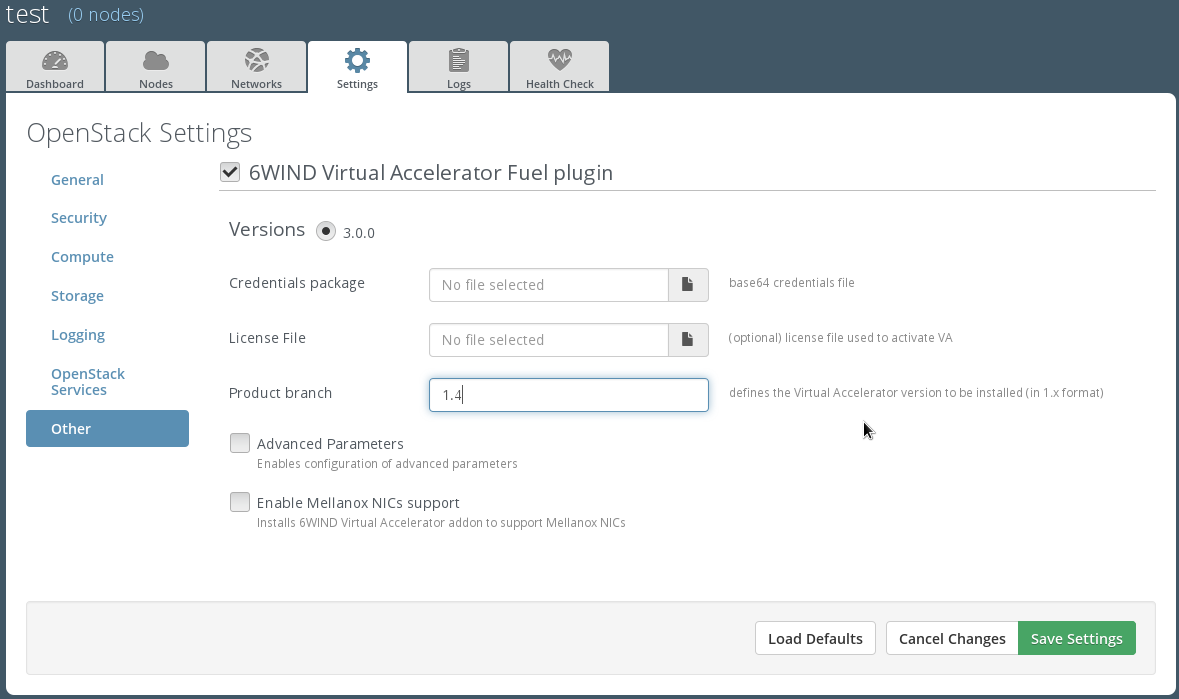
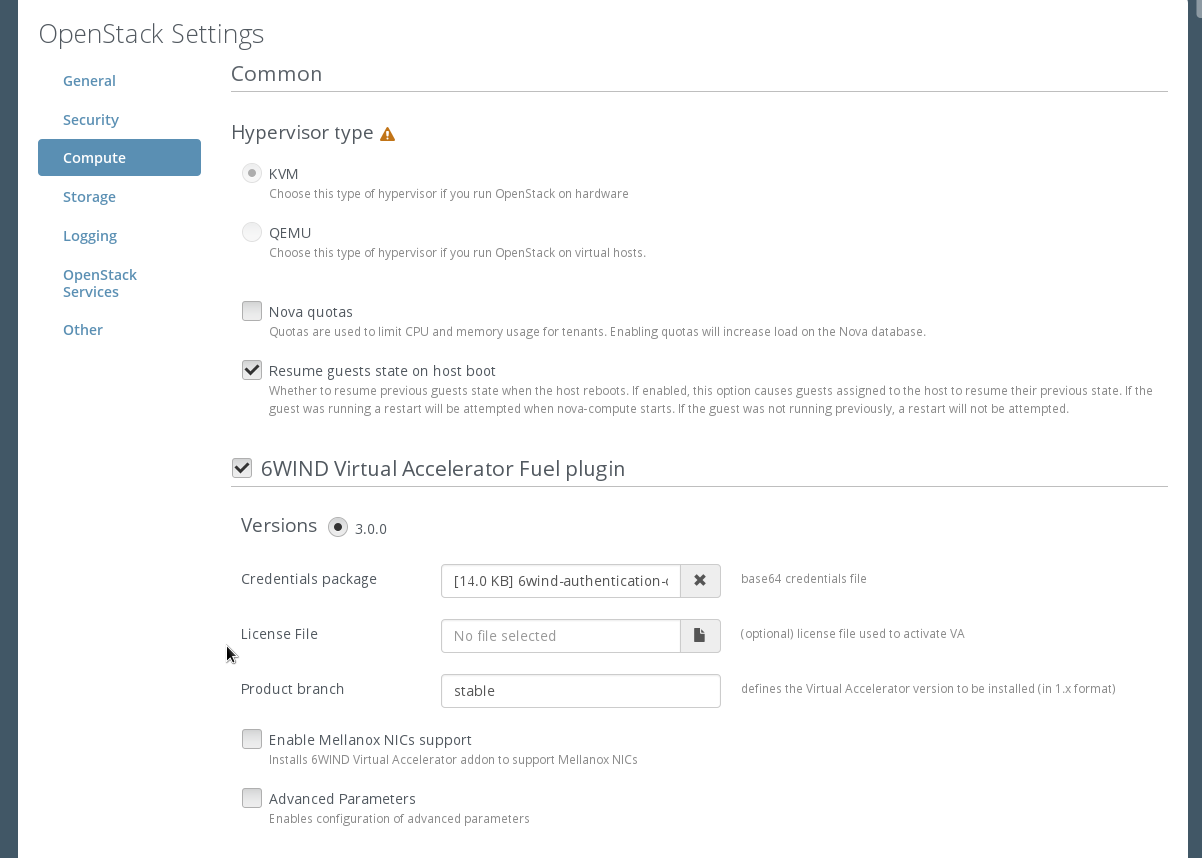
6wind-virtual-accelerator-plugin: update documentation and screenshots
This commit updates documentation and screenshots to reflect
the new placement of 6WIND Virtual Accelerator Fuel plugin UI
in Compute section of Settings tab.

diff --git a/doc/source/user-guide.rst b/doc/source/user-guide.rst
@@ -31,7 +31,8 @@ Configuring 6WIND Virtual Accelerator parameters
 The 6WIND Virtual Accelerator plugin makes possible to modify these default
 configuration parameters before deployment.
 In order to do this you need to activate the **Advanced parameters** checkbox
-in the 6WIND Virtual Accelerator Fuel plugin section in the Web UI Settings tab.
+in the 6WIND Virtual Accelerator Fuel plugin sub-section in the Web UI Settings
+tab (Compute section).
 
     .. image:: images/advanced.png
        :width: 100%

diff --git a/README.md b/README.md
@@ -22,7 +22,7 @@ User Guide
 
     1. Create a new environment with the Fuel Web UI wizard.
     2. Click on the Settings tab of the Fuel Web UI.
-    3. Scroll down the page, select the plugin checkbox and edit options
+    3. In Compute section select the plugin checkbox and edit options
        (if desired).
        In particular it is mandatory to provide the 6WIND base64 credentials
        package for software download.

diff --git a/doc/source/installation.rst b/doc/source/installation.rst
@@ -108,7 +108,7 @@ Configuring 6WIND Virtual Accelerator Plugin
     .. image:: images/kvm.png
        :width: 90%
 
-#.  Activate the plugin in the Fuel Settings tab
+#.  Activate the plugin in the Fuel Settings tab (Compute section)
 
     .. image:: images/activation.png
        :width: 90%
